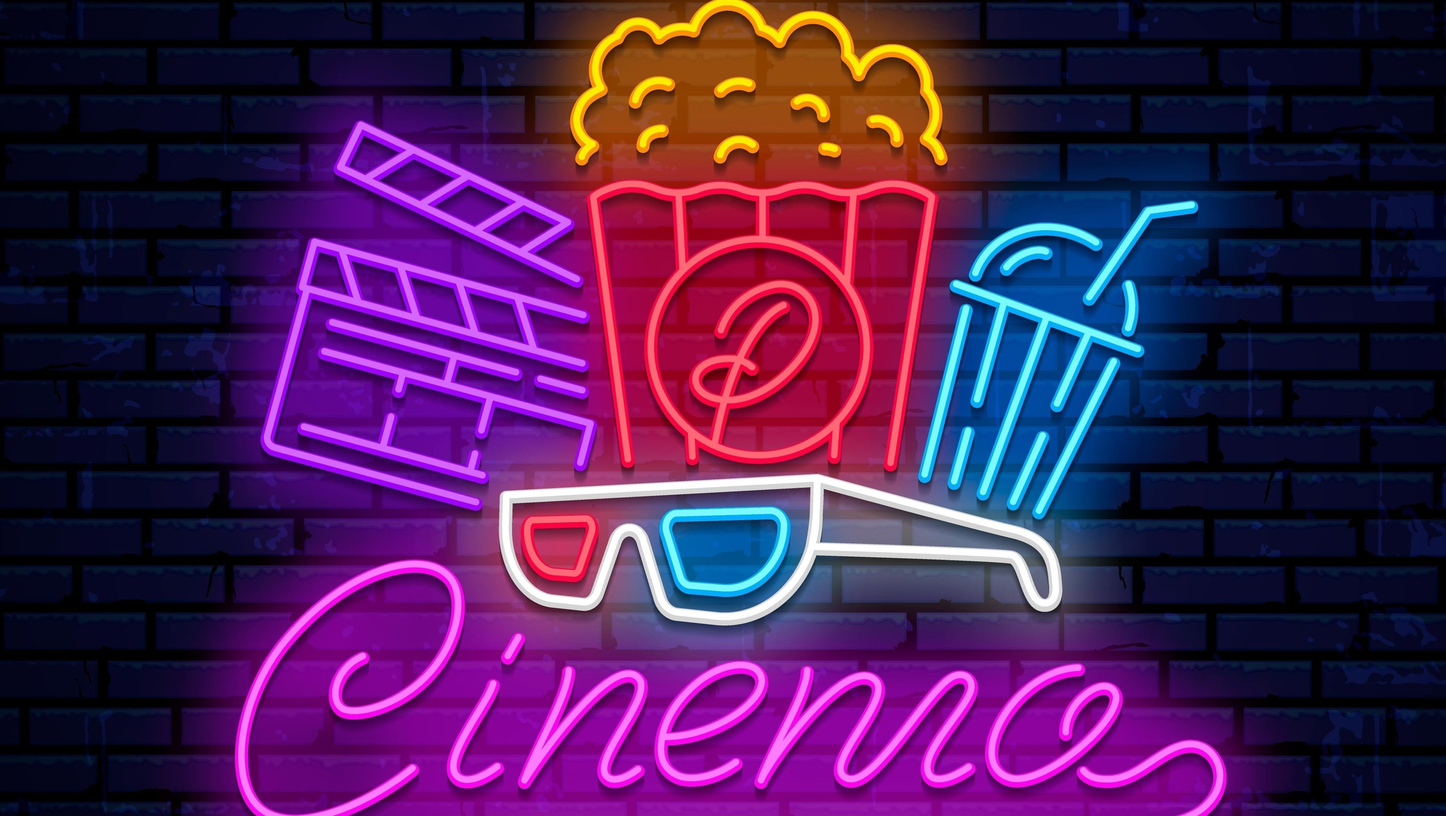
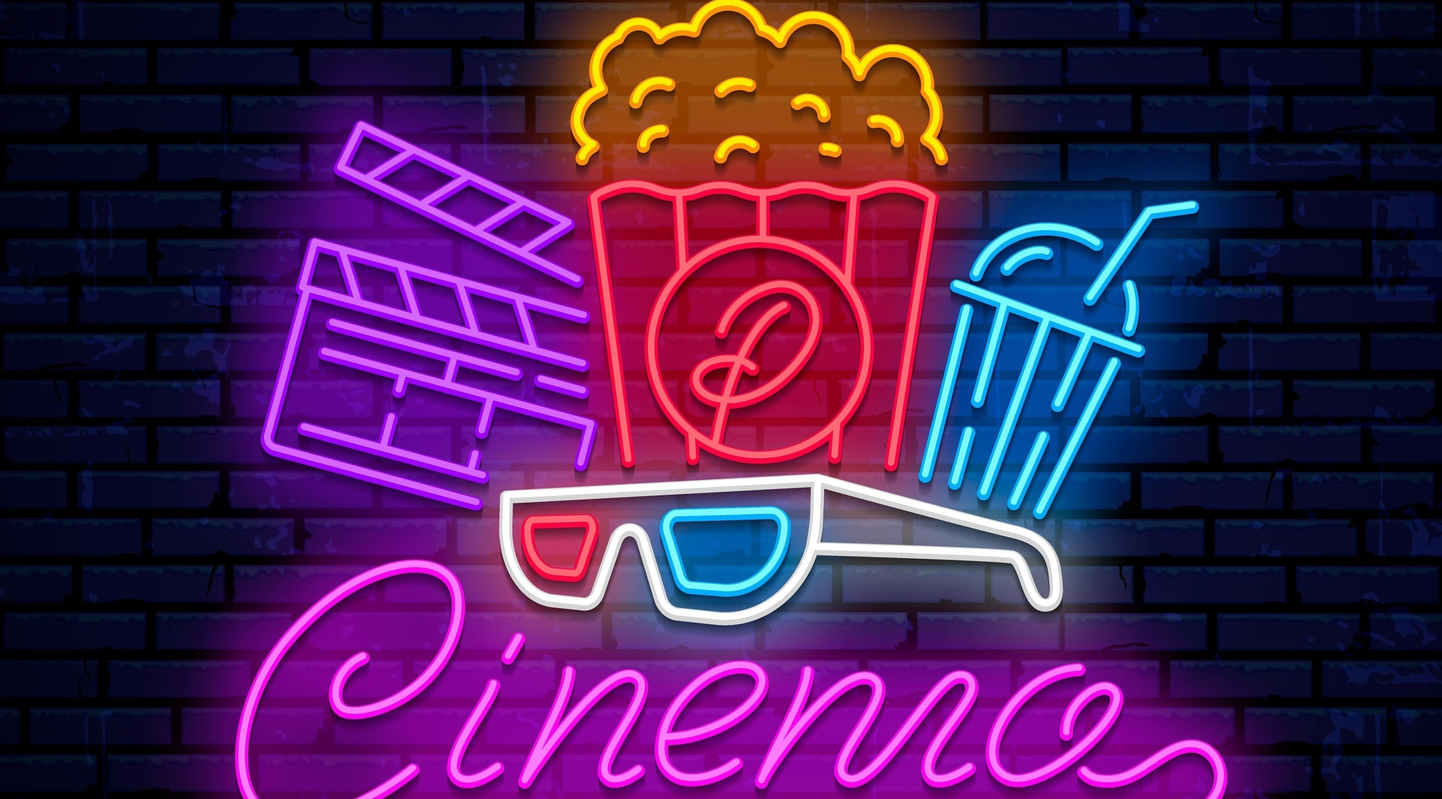
preloader hotfix

diff --git a/src/sass/base/_preloader.scss b/src/sass/base/_preloader.scss
@@ -5,14 +5,13 @@
   background-position: center;
   background-size: cover;
   background-repeat: no-repeat;
-
+  overflow: hidden;
   z-index: 1000;
   left: 0;
   top: 0;
   right: 0;
   bottom: 0;
-  overflow: hidden;
-  transition: opacity 4s ease-in;
+  transition: opacity 2s ease-in;
 
   -webkit-user-select: none;
   -moz-user-select: none;

diff --git a/src/sass/layouts/_hero.scss b/src/sass/layouts/_hero.scss
@@ -2,7 +2,7 @@
   height: 400px;
   padding: 10px;
   margin-right: 15px;
-  background-position: center;
+  background-position: 50% 80%;
   background-repeat: no-repeat;
   background-size: cover;
   border-radius: 8px;
